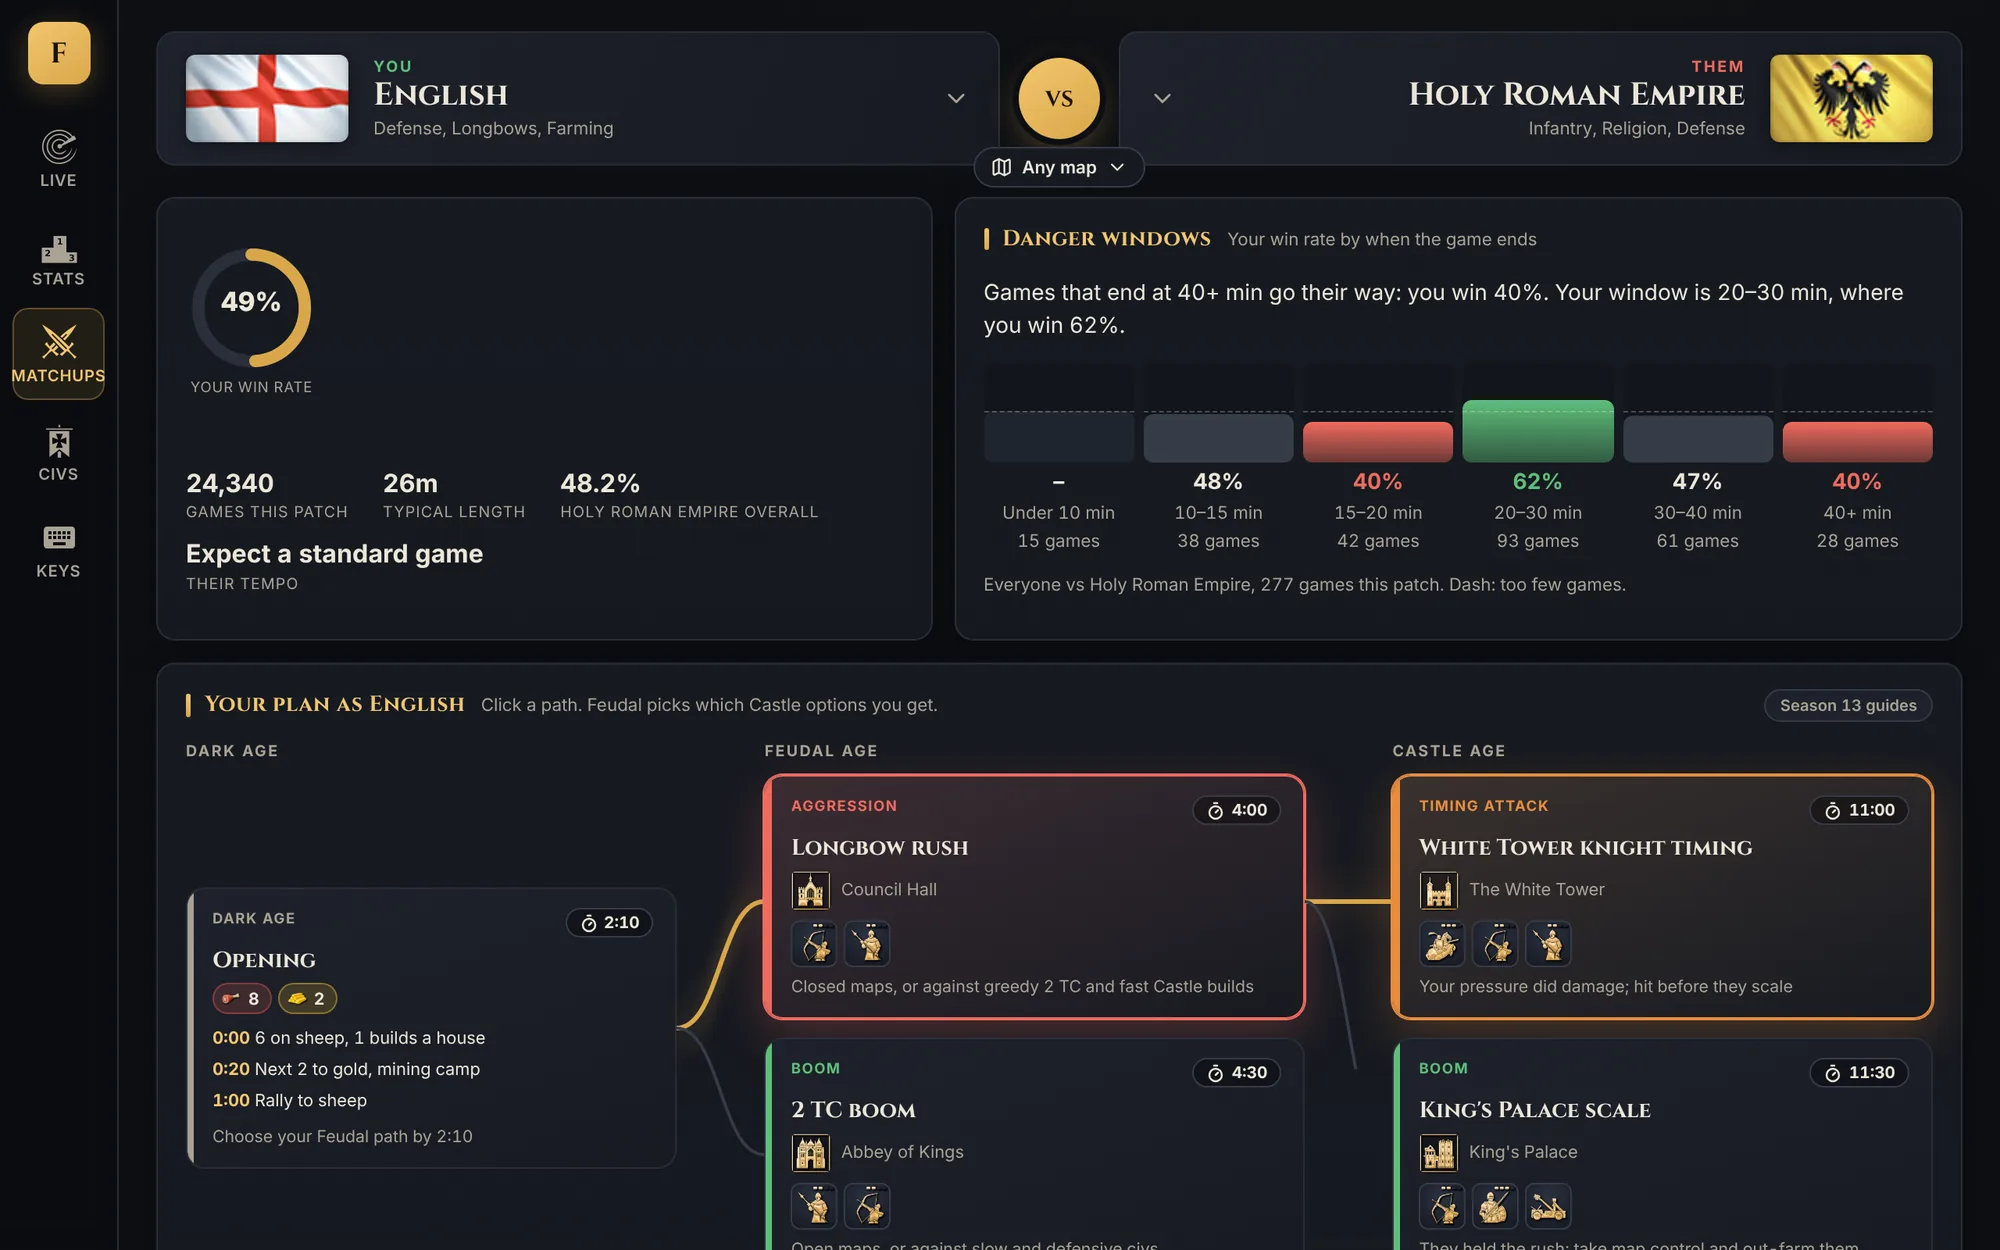
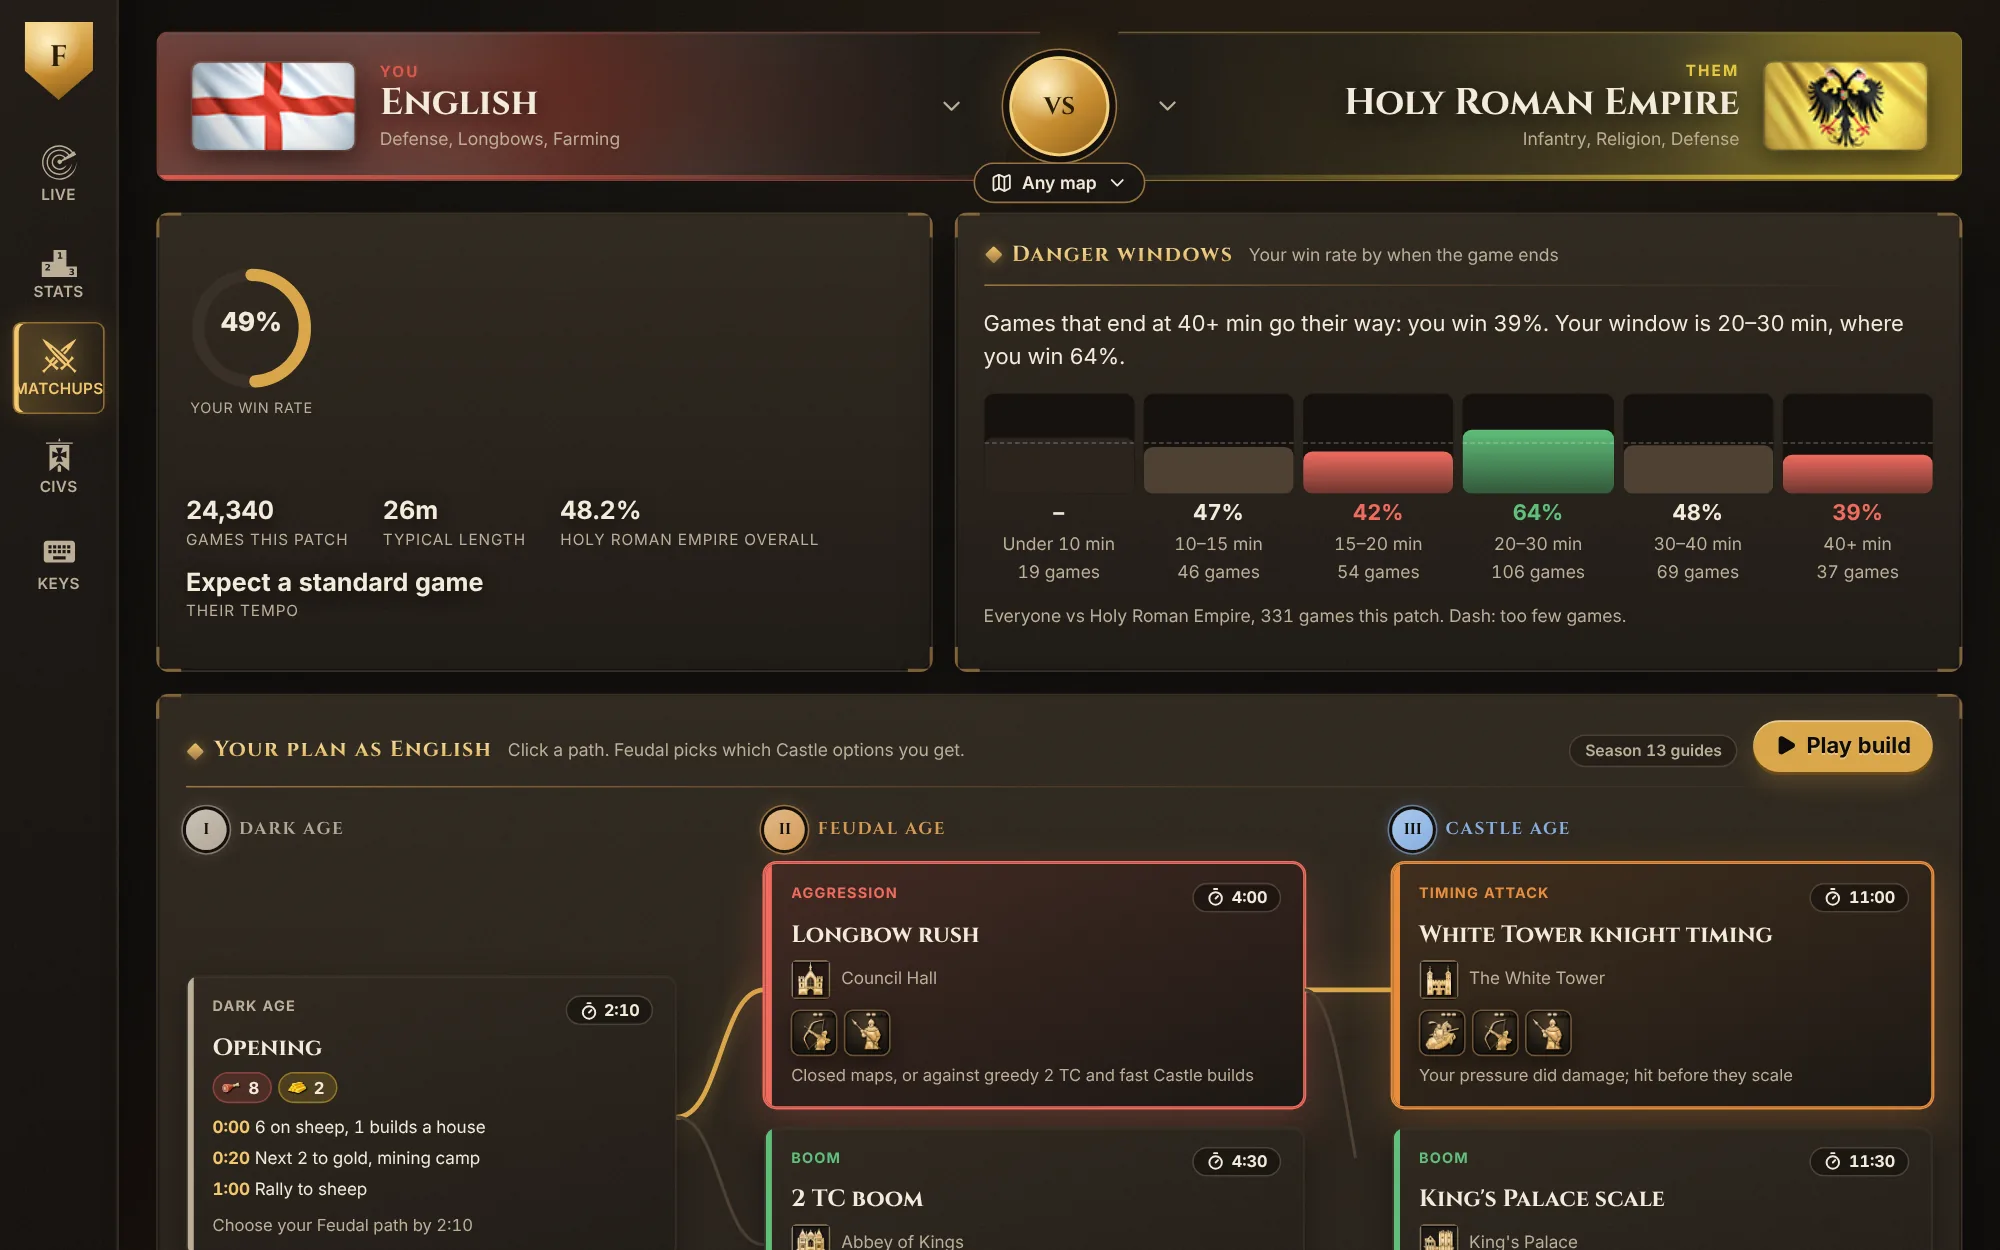
Refresh the landing page for v0.4.0
Retake every screenshot in the new war-room theme with bundled icons,
show Vikings in the plan, scouting and counter shots, and add a Play
build section with a playback screenshot. The civ list mentions the new
Vikings and Scots.

Claude-Session: https://claude.ai/code/session_01V5CWtiWRefjZkRZ6SB3wEM

diff --git a/site/index.html b/site/index.html
@@ -116,7 +116,7 @@
             </p>
           </div>
           <figure class="shot">
-            <img src="img/danger.webp" width="1292" height="574" loading="lazy" alt="Danger windows: win rate by game length, strongest at 20 to 30 minutes" />
+            <img src="img/danger.webp" width="1009" height="461" loading="lazy" alt="Danger windows: win rate by game length, strongest at 20 to 30 minutes" />
           </figure>
         </article>
 
@@ -130,7 +130,21 @@
             </p>
           </div>
           <figure class="shot">
-            <img src="img/plan.webp" width="1800" height="1355" loading="lazy" alt="English game plan: Dark Age opening branching into Longbow Rush or 2 TC Boom, then Castle Age options, with a villager chart" />
+            <img src="img/plan.webp" width="1806" height="1858" loading="lazy" alt="Vikings game plan: Dark Age opening branching into Konungr Hall 2 TC or Baugr Fort 1 TC aggression, then Castle Age options, with a villager chart and step list" />
+          </figure>
+        </article>
+
+        <article class="feature wide">
+          <div class="feature-copy">
+            <p class="kicker">Play build</p>
+            <h2>Watch the build before you play it.</h2>
+            <p>
+              Press Play build on any plan and step through it: where every villager works, who gets pulled to build,
+              where to rally and when you age up. Play it step by step or in real time, for every civ and path.
+            </p>
+          </div>
+          <figure class="shot">
+            <img src="img/playback.webp" width="1844" height="975" loading="lazy" alt="Play build timeline for the Vikings Konungr Hall 2 TC path: villager split per step, moves, rally point and age-ups" />
           </figure>
         </article>
 
@@ -139,12 +153,12 @@
             <p class="kicker">Scouting</p>
             <h2>One look at their landmark tells you their plan.</h2>
             <p>
-              Every landmark they can age up with, what it usually means, and when it hits. Spot Meinwerk Palace and
-              you know Men-at-Arms are about to walk at your gold.
+              Every landmark they can age up with, what it usually means, and when it hits. Spot a Viking Baugr Fort and
+              you know Bondi and Berserkers are about to walk at your gold.
             </p>
           </div>
           <figure class="shot">
-            <img src="img/scout.webp" width="1372" height="882" loading="lazy" alt="Holy Roman Empire landmark choices and the plans each one leads to" />
+            <img src="img/scout.webp" width="1072" height="1055" loading="lazy" alt="Vikings landmark choices, the plans each one leads to, and how to answer them in each age" />
           </figure>
         </article>
 
@@ -158,7 +172,7 @@
             </p>
           </div>
           <figure class="shot">
-            <img src="img/counters.webp" width="1800" height="769" loading="lazy" alt="Holy Roman Empire units by age with English counter units beside each" />
+            <img src="img/counters.webp" width="1806" height="823" loading="lazy" alt="Vikings units by age, from Berserkers to Jylland Knights, with English counter units beside each" />
           </figure>
         </article>
 
@@ -169,7 +183,7 @@
             <p>The essential grid hotkeys on a real keyboard, grouped by job, plus a counter chart for quick reference.</p>
           </div>
           <figure class="shot">
-            <img src="img/keys.webp" width="1800" height="568" loading="lazy" alt="Keyboard with the essential AoE4 hotkeys colored by group" />
+            <img src="img/keys.webp" width="1747" height="419" loading="lazy" alt="Keyboard with the essential AoE4 hotkeys colored by group" />
           </figure>
         </article>
 
@@ -213,7 +227,7 @@
 
       <section id="civs" class="civs-section wrap">
         <h2>Every civ. Every matchup.</h2>
-        <p class="sub">25 civilizations and variants, so 625 pairings. Unit data tracks the current patch.</p>
+        <p class="sub">25 civilizations and variants, including the new Vikings and Scots, so 625 pairings. Unit data tracks the current patch.</p>
         <ul class="civs">
           <li><img src="flags/abbasid_dynasty.png" alt="" loading="lazy" />Abbasid Dynasty</li>
           <li><img src="flags/ayyubids.png" alt="" loading="lazy" />Ayyubids</li>
